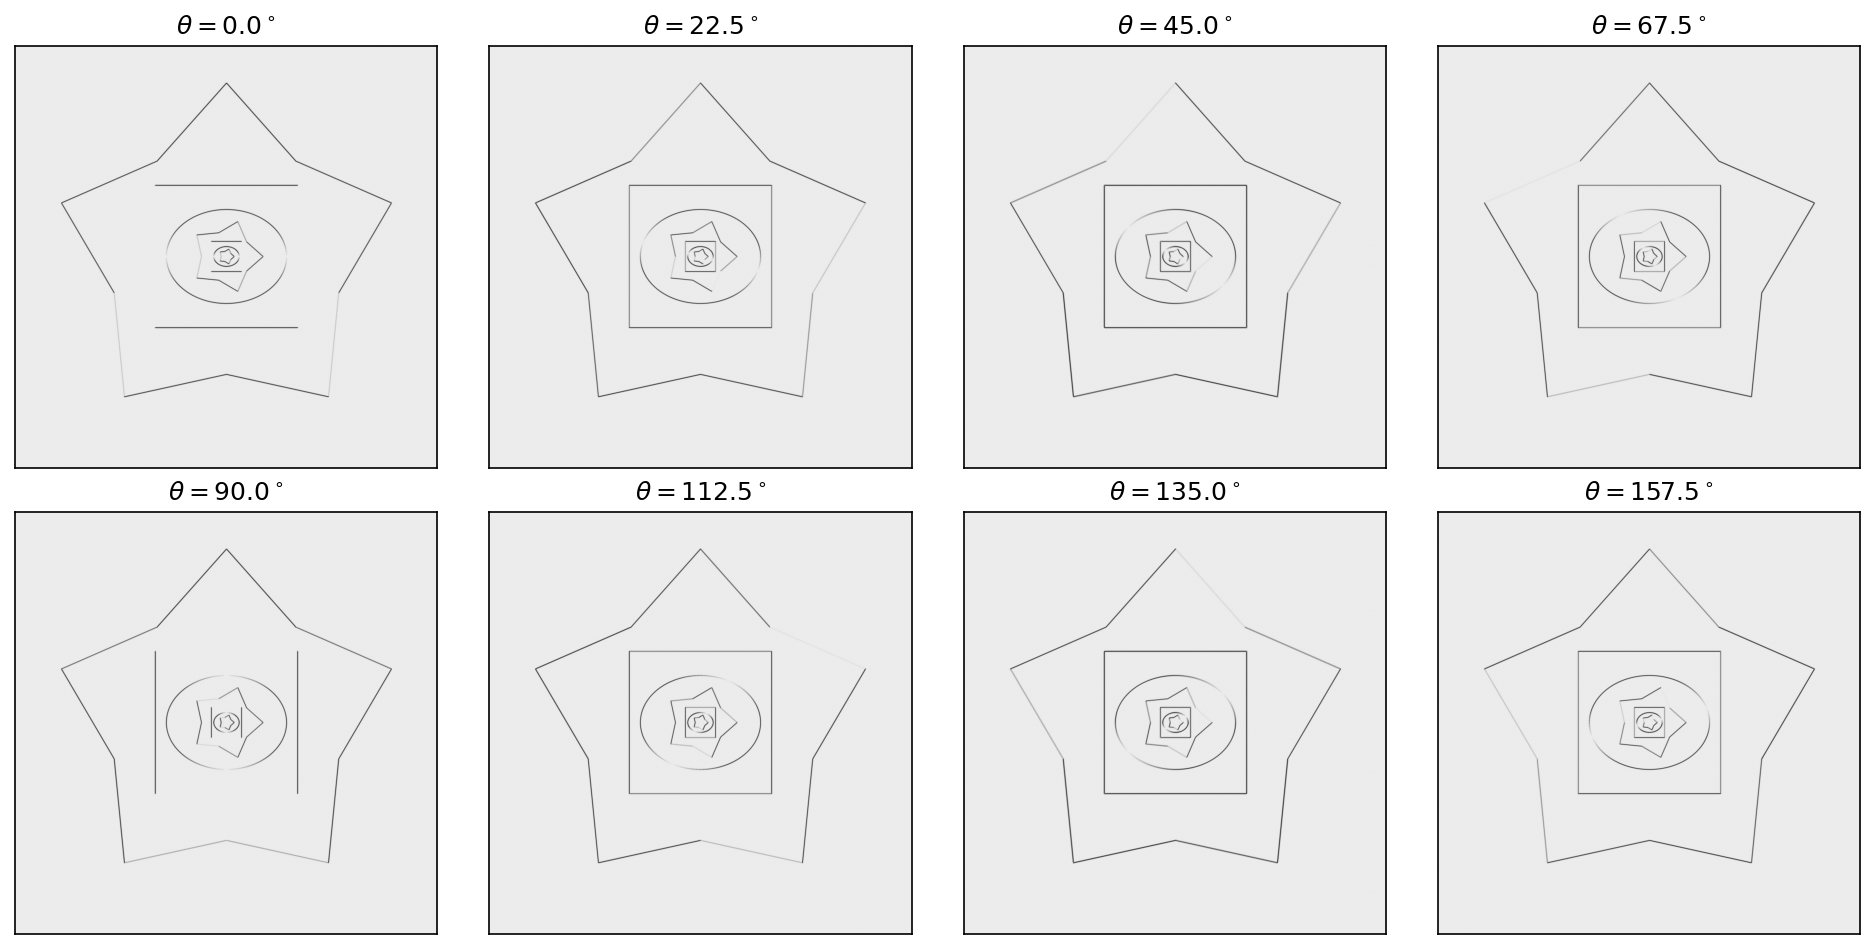
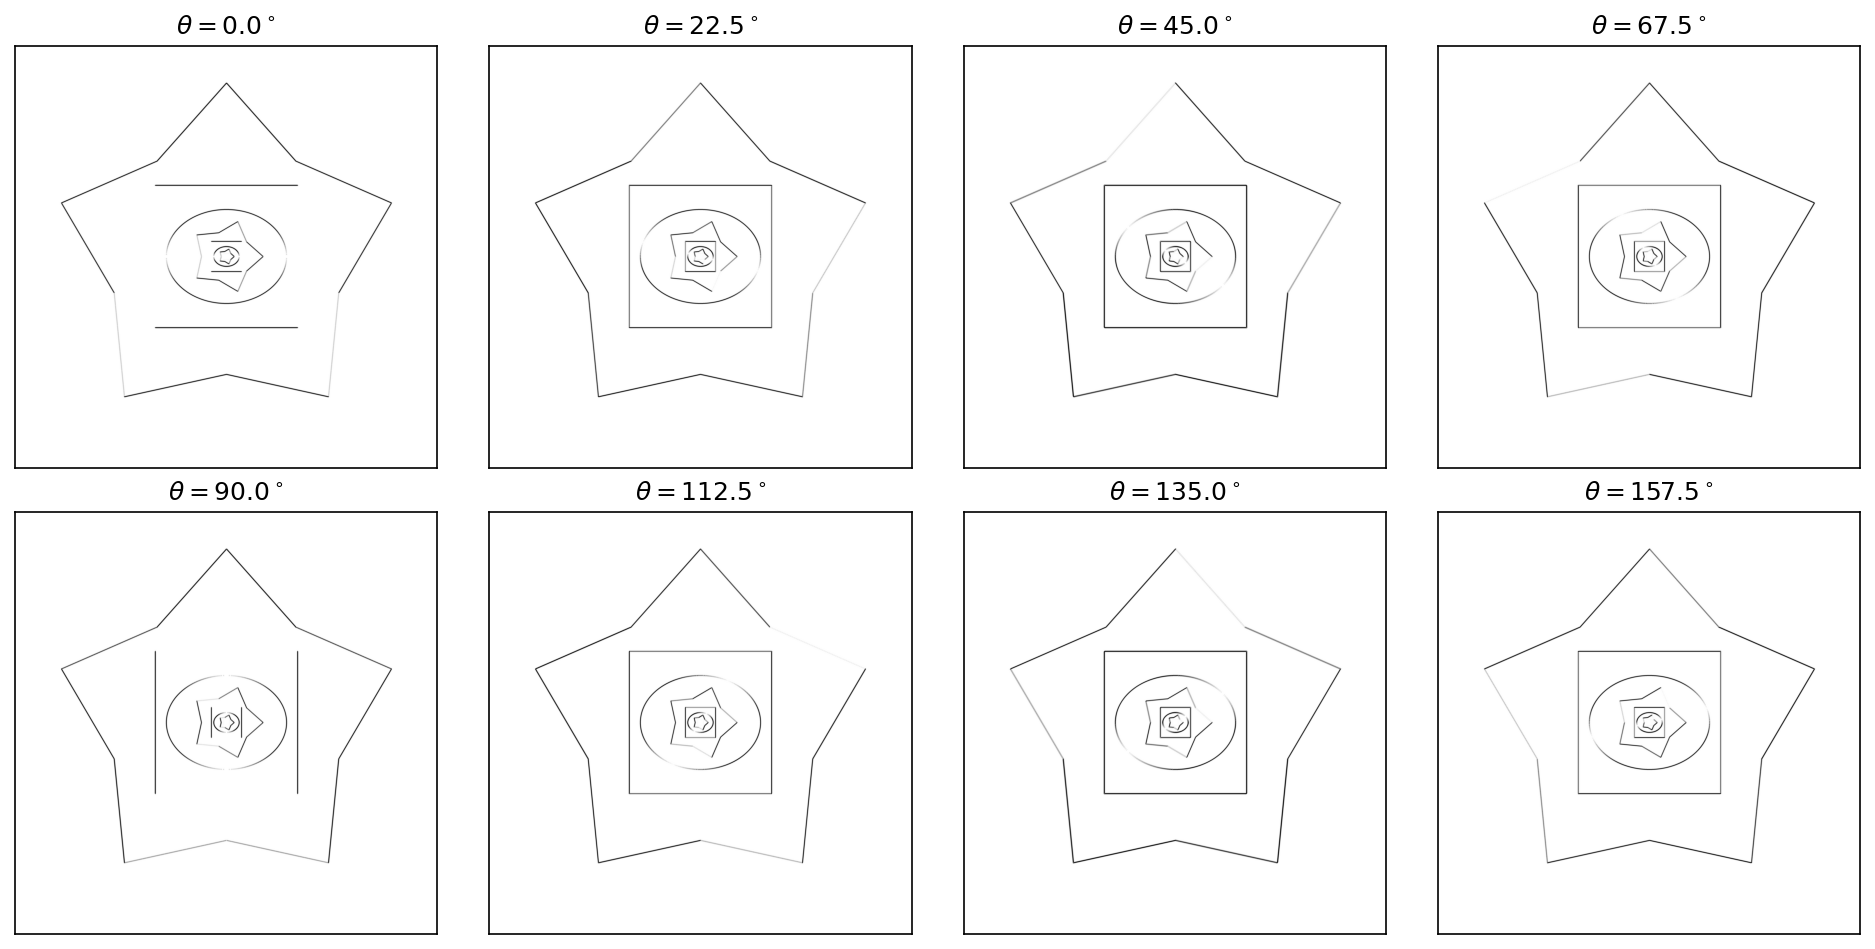
Switch lf_orientation_panel to gray_r (white background, black edges)

diff --git a/scripts/eval/run_lf_orientation_panel.py b/scripts/eval/run_lf_orientation_panel.py
@@ -41,7 +41,6 @@ from pathlib import Path
 import numpy as np
 from PIL import Image
 import matplotlib.pyplot as plt
-from matplotlib.colors import LinearSegmentedColormap
 
 from edgecritic.wvf._radius_kernels import wvf_radius_gradients_cpu
 
@@ -158,12 +157,11 @@ def main() -> None:
         rows, cols, figsize=(3.2 * cols, 3.2 * rows), squeeze=False)
 
     vmax = float(np.percentile(response_stack, args.clip_percentile))
-    cmap = LinearSegmentedColormap.from_list(
-        "neutral_gray", ["#ECECEC", "#363636"])
 
     for k in range(args.n_orientations):
         ax = axes[k // cols, k % cols]
-        ax.imshow(response_stack[..., k], cmap=cmap, vmin=0.0, vmax=vmax)
+        ax.imshow(response_stack[..., k], cmap="gray_r",
+                  vmin=0.0, vmax=vmax)
         deg = np.degrees(angles[k])
         ax.set_title(rf"$\theta = {deg:.1f}^\circ$", fontsize=12)
         ax.set_xticks([])
